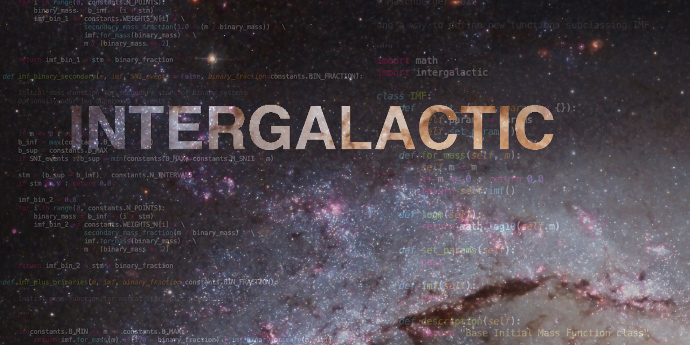
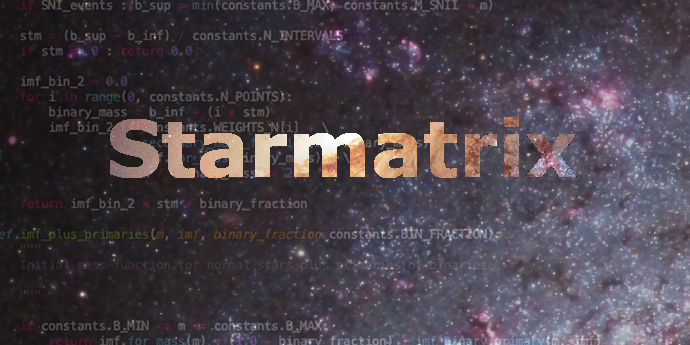
Intergalactic --> Starmatrix

diff --git a/docs/conf.py b/docs/conf.py
@@ -19,7 +19,7 @@
 
 # -- Project information -----------------------------------------------------
 
-project = 'Intergalactic'
+project = 'Starmatrix'
 copyright = '2020, Juanjo Bazán'
 author = 'Juanjo Bazán'
 
@@ -101,7 +101,7 @@ html_static_path = ['_static']
 # -- Options for HTMLHelp output ---------------------------------------------
 
 # Output file base name for HTML help builder.
-htmlhelp_basename = 'Intergalacticdoc'
+htmlhelp_basename = 'Starmatrixdoc'
 
 
 # -- Options for LaTeX output ------------------------------------------------
@@ -128,7 +128,7 @@ latex_elements = {
 # (source start file, target name, title,
 #  author, documentclass [howto, manual, or own class]).
 latex_documents = [
-    (master_doc, 'Intergalactic.tex', 'Intergalactic Documentation',
+    (master_doc, 'Starmatrix.tex', 'Starmatrix Documentation',
      'Juanjo Bazán', 'manual'),
 ]
 
@@ -138,7 +138,7 @@ latex_documents = [
 # One entry per manual page. List of tuples
 # (source start file, name, description, authors, manual section).
 man_pages = [
-    (master_doc, 'intergalactic', 'Intergalactic Documentation',
+    (master_doc, 'starmatrix', 'Starmatrix Documentation',
      [author], 1)
 ]
 
@@ -149,8 +149,8 @@ man_pages = [
 # (source start file, target name, title, author,
 #  dir menu entry, description, category)
 texinfo_documents = [
-    (master_doc, 'Intergalactic', 'Intergalactic Documentation',
-     author, 'Intergalactic', 'One line description of project.',
+    (master_doc, 'Starmatrix', 'Starmatrix Documentation',
+     author, 'Starmatrix', 'One line description of project.',
      'Miscellaneous'),
 ]
 

diff --git a/src/starmatrix/imfs.py b/src/starmatrix/imfs.py
@@ -16,7 +16,7 @@ and a way to define new functions subclassing IMF
 """
 import math
 import scipy.integrate
-import intergalactic.settings
+import starmatrix.settings
 
 
 def select_imf(name, params={}):
@@ -60,12 +60,12 @@ class IMF:
         if "imf_m_low" in self.params:
             self.m_low = self.params["imf_m_low"]
         else:
-            self.m_low = intergalactic.settings.default["imf_m_low"]
+            self.m_low = starmatrix.settings.default["imf_m_low"]
 
         if "imf_m_up" in self.params:
             self.m_up = self.params["imf_m_up"]
         else:
-            self.m_up = intergalactic.settings.default["imf_m_up"]
+            self.m_up = starmatrix.settings.default["imf_m_up"]
 
     def set_params(self):
         pass
@@ -88,7 +88,7 @@ class Salpeter(IMF):
         if "imf_alpha" in self.params:
             return self.params["imf_alpha"]
         else:
-            return intergalactic.settings.default["imf_alpha"]
+            return starmatrix.settings.default["imf_alpha"]
 
     def description(self):
         return "IMF from Salpeter 1955"

diff --git a/src/starmatrix/cli.py b/src/starmatrix/cli.py
@@ -4,18 +4,18 @@ import shutil
 import yaml
 from os.path import dirname, join, exists
 
-import intergalactic
-import intergalactic.settings as settings
-import intergalactic.model as model
+import starmatrix
+import starmatrix.settings as settings
+import starmatrix.model as model
 
 
 def main():
     parser = argparse.ArgumentParser(
-        prog="intergalactic",
-        description="Command line tools for the intergalactic Python library.",
+        prog="starmatrix",
+        description="Command line tools for the Starmatrix Python library.",
         epilog="Another dimension, new Galaxy!",
     )
-    parser.add_argument("-v", "--version", action="version", version=intergalactic.__version__)
+    parser.add_argument("-v", "--version", action="version", version=starmatrix.__version__)
     parser.add_argument("--config", metavar="FILENAME", help="configuration file to use containing model initial params")
     parser.add_argument("--generate-config", action="store_true", help="create a config.yml example file")
 

diff --git a/src/starmatrix/model.py b/src/starmatrix/model.py
@@ -1,13 +1,13 @@
 import math
 import numpy as np
-import intergalactic.constants as constants
-import intergalactic.elements as elements
-import intergalactic.matrix as matrix
-from intergalactic.imfs import select_imf
-from intergalactic.abundances import select_abundances
-from intergalactic.dtds import select_dtd, dtd_correction
-from intergalactic.functions import stellar_mass, stellar_lifetime, max_mass_allowed, return_fraction
-from intergalactic.functions import total_energy_ejected, newton_cotes, global_imf, imf_supernovas_II
+import starmatrix.constants as constants
+import starmatrix.elements as elements
+import starmatrix.matrix as matrix
+from starmatrix.imfs import select_imf
+from starmatrix.abundances import select_abundances
+from starmatrix.dtds import select_dtd, dtd_correction
+from starmatrix.functions import stellar_mass, stellar_lifetime, max_mass_allowed, return_fraction
+from starmatrix.functions import total_energy_ejected, newton_cotes, global_imf, imf_supernovas_II
 
 
 class Model:

diff --git a/src/starmatrix/tests/test_model.py b/src/starmatrix/tests/test_model.py
@@ -2,13 +2,13 @@ import pytest
 from pytest_mock import mocker
 
 import numpy
-import intergalactic.model
-from intergalactic.model import Model
-import intergalactic.settings as settings
-import intergalactic.imfs as imfs
-import intergalactic.functions as functions
-import intergalactic.abundances as abundances
-import intergalactic.dtds as dtds
+import starmatrix.model
+from starmatrix.model import Model
+import starmatrix.settings as settings
+import starmatrix.imfs as imfs
+import starmatrix.functions as functions
+import starmatrix.abundances as abundances
+import starmatrix.dtds as dtds
 
 
 def test_model_initialization():
@@ -43,7 +43,7 @@ def deactivate_open_files(mocker):
     Fixture to disable opening of files from model
     """
     mocked_file = mocker.mock_open()
-    mocker.patch.object(intergalactic.model, 'open', mocked_file)
+    mocker.patch.object(starmatrix.model, 'open', mocked_file)
     return mocked_file
 
 

diff --git a/src/starmatrix/tests/test_dtds.py b/src/starmatrix/tests/test_dtds.py
@@ -1,12 +1,12 @@
 import pytest
 import numpy as np
-import intergalactic.settings as settings
-from intergalactic.dtds import select_dtd
-from intergalactic.dtds import dtd_correction
-from intergalactic.dtds import dtd_ruiz_lapuente
-from intergalactic.dtds import dtd_maoz_graur
-from intergalactic.dtds import dtd_castrillo
-from intergalactic.dtds import dtd_greggio
+import starmatrix.settings as settings
+from starmatrix.dtds import select_dtd
+from starmatrix.dtds import dtd_correction
+from starmatrix.dtds import dtd_ruiz_lapuente
+from starmatrix.dtds import dtd_maoz_graur
+from starmatrix.dtds import dtd_castrillo
+from starmatrix.dtds import dtd_greggio
 
 
 @pytest.fixture

diff --git a/src/starmatrix/tests/test_abundances.py b/src/starmatrix/tests/test_abundances.py
@@ -1,8 +1,8 @@
 import pytest
 import numpy as np
-import intergalactic.settings as settings
-from intergalactic.abundances import Abundances, select_abundances
-from intergalactic.abundances import AndersGrevesse1989, GrevesseSauval1998, Asplund2005, Asplund2009, Heger2010, Lodders2019
+import starmatrix.settings as settings
+from starmatrix.abundances import Abundances, select_abundances
+from starmatrix.abundances import AndersGrevesse1989, GrevesseSauval1998, Asplund2005, Asplund2009, Heger2010, Lodders2019
 
 
 @pytest.fixture

diff --git a/src/starmatrix/tests/test_matrix.py b/src/starmatrix/tests/test_matrix.py
@@ -1,11 +1,11 @@
 import pytest
 from pytest_mock import mocker
 import numpy as np
-import intergalactic.constants as constants
-import intergalactic.settings as settings
-import intergalactic.elements as elements
-import intergalactic.abundances as abundances
-import intergalactic.matrix as matrix
+import starmatrix.constants as constants
+import starmatrix.settings as settings
+import starmatrix.elements as elements
+import starmatrix.abundances as abundances
+import starmatrix.matrix as matrix
 
 
 def test_params():

diff --git a/src/starmatrix/tests/test_functions.py b/src/starmatrix/tests/test_functions.py
@@ -1,10 +1,10 @@
 import pytest
 import numpy as np
-import intergalactic.functions as functions
-import intergalactic.constants as constants
-import intergalactic.settings as settings
-import intergalactic.elements as elements
-from intergalactic.imfs import select_imf
+import starmatrix.functions as functions
+import starmatrix.constants as constants
+import starmatrix.settings as settings
+import starmatrix.elements as elements
+from starmatrix.imfs import select_imf
 
 
 def test_value_in_interval():

diff --git a/src/starmatrix/tests/test_imfs.py b/src/starmatrix/tests/test_imfs.py
@@ -1,9 +1,9 @@
 import pytest
 import math
 import numpy as np
-import intergalactic.settings as settings
-from intergalactic.imfs import select_imf, IMF
-from intergalactic.imfs import Salpeter, Starburst, Chabrier, Ferrini, Kroupa, MillerScalo, Maschberger
+import starmatrix.settings as settings
+from starmatrix.imfs import select_imf, IMF
+from starmatrix.imfs import Salpeter, Starburst, Chabrier, Ferrini, Kroupa, MillerScalo, Maschberger
 
 
 @pytest.fixture

diff --git a/src/starmatrix/settings.py b/src/starmatrix/settings.py
@@ -5,9 +5,9 @@ All the values set here can be overwritten via the input file: params.yml
 
 """
 from os.path import dirname, join
-from intergalactic import constants as constants
-from intergalactic import elements
-from intergalactic.functions import max_mass_allowed
+from starmatrix import constants as constants
+from starmatrix import elements
+from starmatrix.functions import max_mass_allowed
 
 default = {
     "z": 0.02,

diff --git a/src/starmatrix/tests/test_cli.py b/src/starmatrix/tests/test_cli.py
@@ -3,9 +3,9 @@ import os
 import shutil
 import pytest
 from pytest_mock import mocker
-import intergalactic.cli as cli
-import intergalactic.model as model
-import intergalactic.settings as settings
+import starmatrix.cli as cli
+import starmatrix.model as model
+import starmatrix.settings as settings
 
 
 @pytest.fixture
